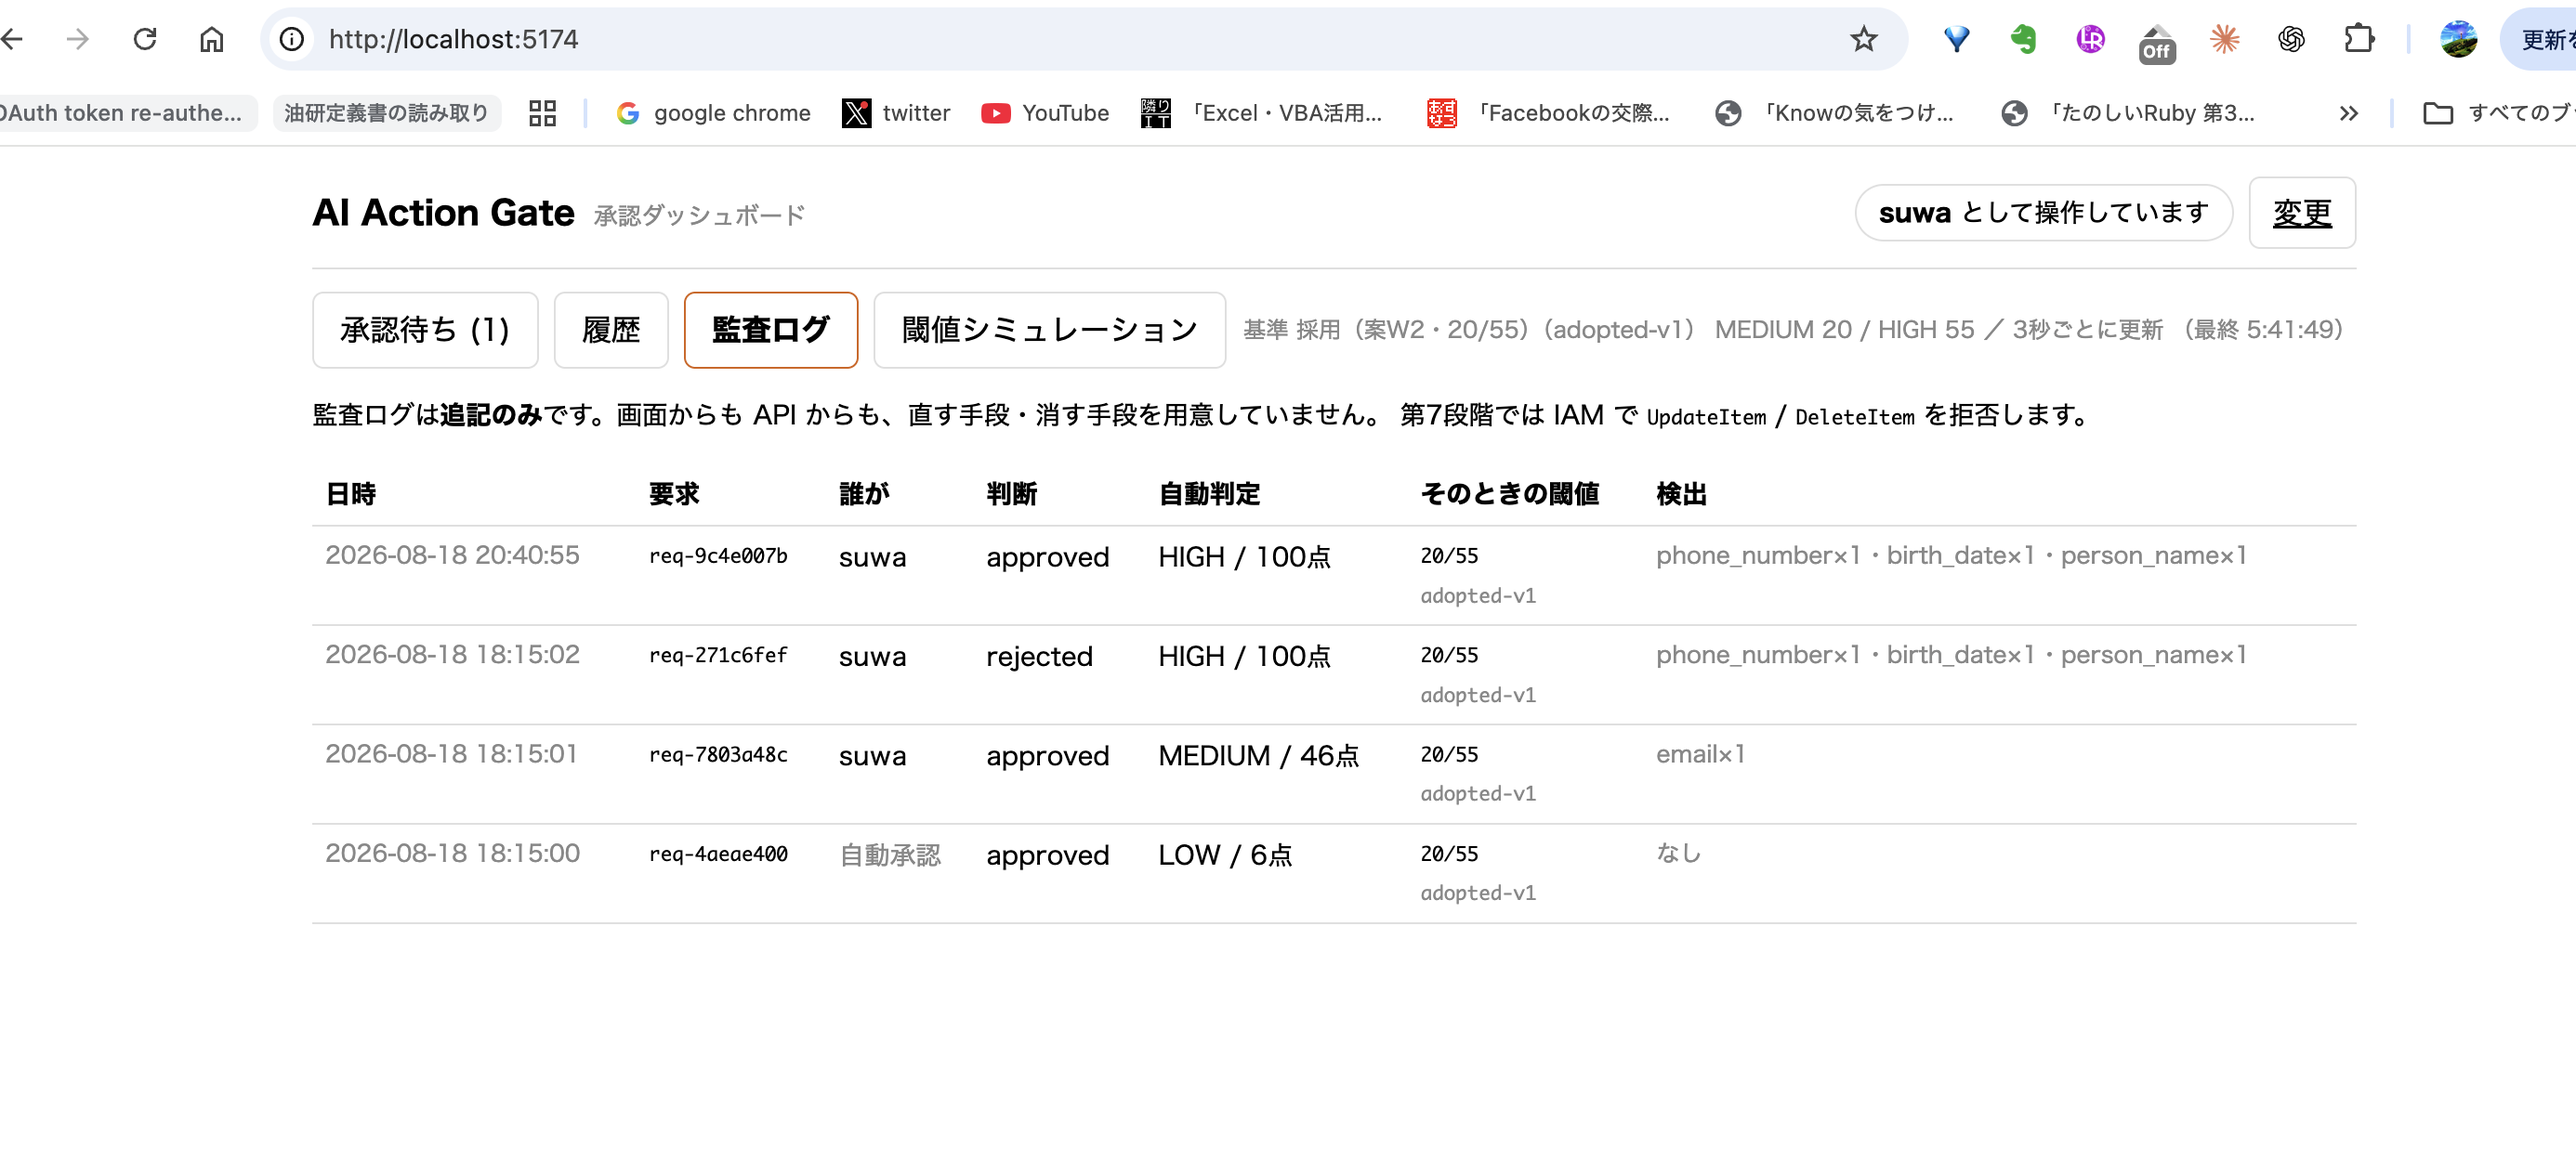
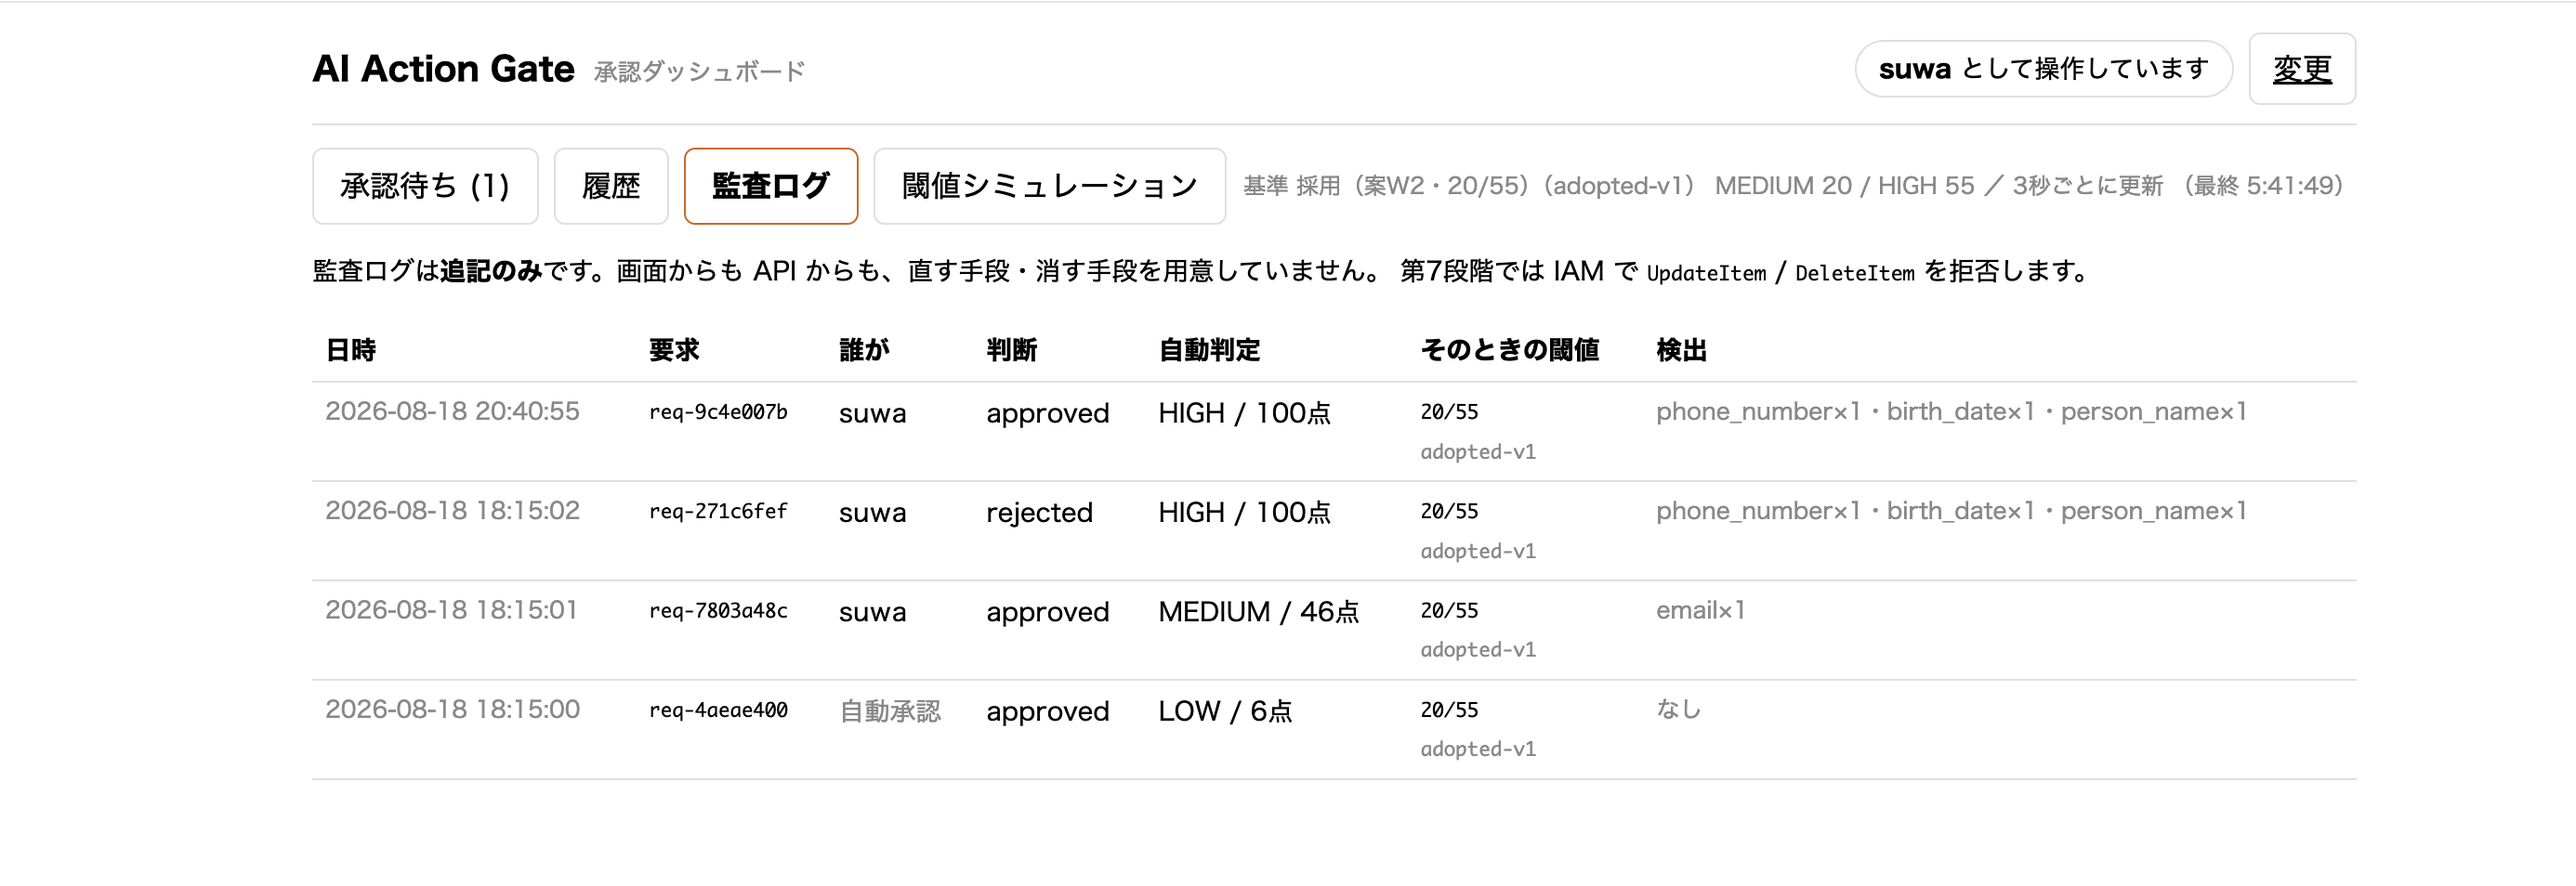
chore: 公開前にスクリーンショットを整理する
- 3枚からブラウザのブックマークバーを切り落とした。
  個人の閲覧内容が写っており、公開リポジトリに載せるものではない。
- queue-no-approver.png を削除。「承認者ID未入力の状態」という
  説明に対して、中身は承認者を設定済みの空キューだった。
  説明と合わない証跡は、無いほうがいい。
- evidence/README.md を「伏せる運用」から
  「伏せた形でしか出力されない」に書き換えた。手で消すのは、いつか忘れる。

Changed region(s): [[0.0, 0.0, 1.0, 0.8816], [0.6205, 0.6384, 0.6825, 0.6992]]

diff --git a/infra/evidence/README.md b/infra/evidence/README.md
@@ -10,15 +10,17 @@
 | `*.png` | ダッシュボードのスクリーンショット | 面談で見せるもの |
 | `teardown.txt` | 削除後の確認出力 | **消し忘れが無いことの記録。** この手のいちばんよくある事故 |
 
-> **【重要】公開する前に、2つを伏せてください。**
+> **【重要】公開する前に伏せるもの（対応済み）。**
 >
-> | 伏せるもの | どこに写るか | なぜ |
+> | 伏せるもの | どこに写るか | どうしたか |
 > |---|---|---|
-> | **Function URL** | `aws-run.txt`・スクリーンショット | 認証タイプが `NONE`。動いているあいだは誰でも叩ける |
-> | **AWSアカウントID（12桁）** | `iam-simulate-audit.json`・`teardown.txt` の ARN | 秘密ではないが、公開リポジトリに置く必要もない |
+> | **Function URL** | `aws-run.txt`・スクリーンショット | `aws_walkthrough.py` は URL を使わず invoke で通す。画面は `localhost` 経由で撮る |
+> | **AWSアカウントID（12桁）** | `iam-simulate-audit.json`・`teardown.txt` の ARN | 保存する時点で `sed` が `<ACCOUNT_ID>` に置換する |
+> | **ブラウザのブックマークバー** | スクリーンショットの上部 | 個人の閲覧内容が写るので、切り落とす |
 >
 > **コミットしてしまうと、あとから消しても履歴には残ります。**
-> 伏せる手順は `../DEPLOY.md` の「証跡を伏せる（git add より前に）」にあります。
+> 伏せてから `git add` する、ではなく、**伏せた形でしか出力されない**ようにしてあります。
+> 手で消す運用は、いつか忘れます。
 
 `iam-simulate-audit.json` で見るところ。
 

diff --git a/README.md b/README.md
@@ -455,10 +455,6 @@ cargo run -p gate-lab -- thresholds   # 閾値案の比較（重みは固定）
 
 ![監査ログ](infra/evidence/audit.png)
 
-承認者IDを入れていない状態。**API が 401 を返すので、誰が承認したか空の記録は作れません。**
-
-![承認者ID未入力](infra/evidence/queue-no-approver.png)
-
 ### 3経路の通し
 
 `aws lambda invoke` を10回。全文は [`infra/evidence/aws-run.txt`](infra/evidence/aws-run.txt) です。
